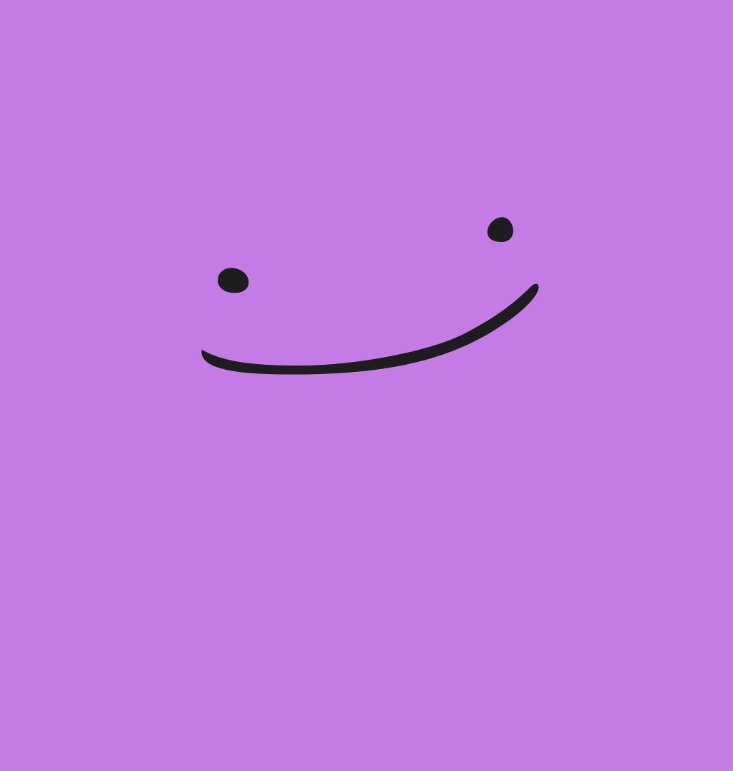
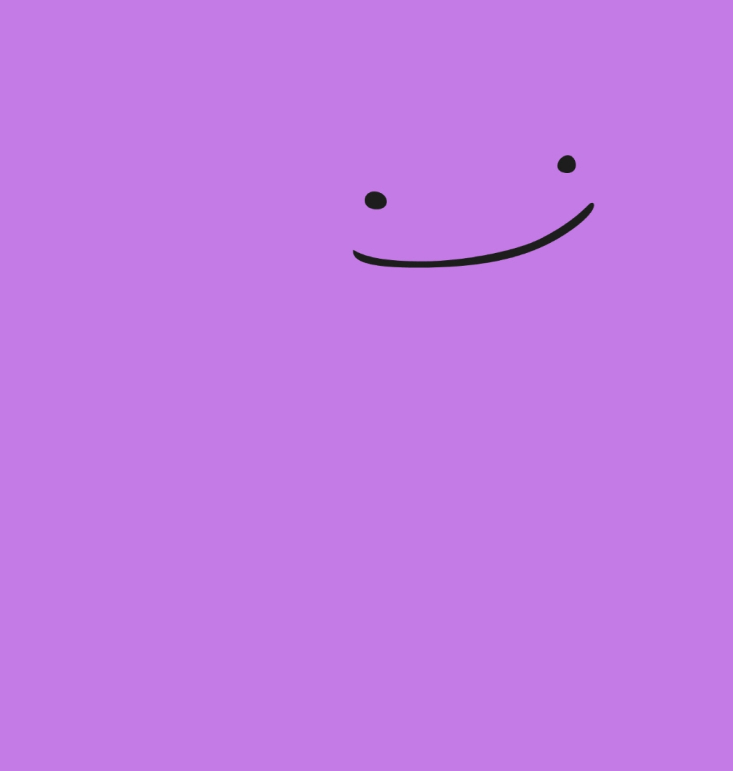
Add new pages

diff --git a/components/Navigation.vue b/components/Navigation.vue
@@ -1,7 +1,15 @@
 <script>
 import image from '../assets/img/jolteon.jpg';
+import Twitter from '../assets/icons/twitter.svg?inline';
+import Facebook from '../assets/icons/fb.svg?inline';
+import Patreon from '../assets/icons/patreon.svg?inline';
 export default {
   name: 'Navigation',
+  components: {
+    Twitter,
+    Facebook,
+    Patreon,
+  },
   props: {
     side: {
       type: String,
@@ -15,9 +23,6 @@ export default {
       type: String,
       default: '#FFDE53',
     },
-  },
-  mounted() {
-    console.log(this.image);
   },
 };
 </script>
@@ -40,6 +45,25 @@ export default {
         </li>
         <li>
           <NuxtLink to="/contact">Contact us</NuxtLink>
+        </li>
+      </ul>
+    </nav>
+    <nav>
+      <ul class="navigation__social">
+        <li>
+          <a href="" target="_blank" rel="noopener noreferrer" title="Twitter"
+            ><Twitter
+          /></a>
+        </li>
+        <li>
+          <a href="" target="_blank" rel="noopener noreferrer" title="Facebook"
+            ><Facebook
+          /></a>
+        </li>
+        <li>
+          <a href="" target="_blank" rel="noopener noreferrer" title="Patreon"
+            ><Patreon
+          /></a>
         </li>
       </ul>
     </nav>
@@ -70,14 +94,30 @@ export default {
     flex-direction: column;
     width: 25vw;
     padding: 100px;
+    padding-right: 0;
+    z-index: 1;
 
     a {
       font-size: 20px;
-      color: black;
+      color: #242426;
       line-height: 24px;
       font-weight: 900;
       text-decoration: none;
       text-transform: uppercase;
+      margin-bottom: 20px;
+      display: block;
+      position: relative;
+
+      &.nuxt-link-exact-active:before {
+        content: '';
+        display: block;
+        width: 20px;
+        height: 20px;
+        background: #242426;
+        position: absolute;
+        left: -40px;
+        top: 2px;
+      }
 
       &:hover {
         text-decoration: underline;
@@ -87,7 +127,7 @@ export default {
 
   &__pkmn-wrapper {
     height: 100vh;
-    width: 50vh;
+    width: 25vw;
     position: fixed;
     top: 0;
 
@@ -98,10 +138,6 @@ export default {
         right: -100%;
         align-items: flex-end;
       }
-
-      .navigation__pkmn-img {
-        margin-right: 10%;
-      }
     }
 
     &--right {
@@ -111,10 +147,22 @@ export default {
         left: -100%;
         align-items: flex-start;
       }
+    }
+  }
 
-      .navigation__pkmn-img {
-        margin-left: 10%;
-      }
+  &__social {
+    position: fixed;
+    bottom: 0;
+    left: 0;
+    padding: 100px;
+    display: flex;
+
+    a {
+      margin-right: 20px;
+    }
+
+    a svg {
+      width: 24px;
     }
   }
 
@@ -130,6 +178,10 @@ export default {
     justify-content: center;
     flex-direction: column;
     position: absolute;
+
+    &-img {
+      margin-left: 10%;
+    }
   }
 }
 </style>

diff --git a/layouts/default.vue b/layouts/default.vue
@@ -1,9 +1,62 @@
+<script>
+import Vue from 'vue';
+import jolteon from '../assets/img/jolteon.jpg';
+import dratini from '../assets/img/dratini.jpg';
+import ditto from '../assets/img/ditto.jpg';
+import ghastly from '../assets/img/ghastly.jpg';
+import quagsire from '../assets/img/quagsire.jpg';
+
+const pagePokemon = Object.freeze({
+  home: {
+    side: 'right',
+    image: jolteon,
+    background: '#FFDE53',
+  },
+  about: {
+    side: 'left',
+    image: dratini,
+    background: '#7384D6',
+  },
+  how: {
+    side: 'right',
+    image: ghastly,
+    background: '#382A39',
+  },
+  legal: {
+    side: 'left',
+    image: ditto,
+    background: '#C47BE6',
+  },
+  contact: {
+    side: 'right',
+    image: quagsire,
+    background: '#82D5F5',
+  },
+});
+
+export default Vue.extend({
+  data() {
+    return {
+      pokemon: pagePokemon.home,
+    };
+  },
+  created() {
+    this.$nuxt.$on('page', (data) => {
+      this.pokemon = pagePokemon[data];
+    });
+  },
+});
+</script>
+
 <template>
   <div>
-    <Navigation />
-    <main>
+    <Navigation
+      :side="pokemon.side"
+      :image="pokemon.image"
+      :background="pokemon.background"
+    />
+    <main tabindex="-1">
       <Nuxt />
     </main>
-    <footer><nav>Footer here</nav></footer>
   </div>
 </template>

diff --git a/pages/how-it-works.vue b/pages/how-it-works.vue
@@ -3,7 +3,7 @@ import Vue from 'vue';
 
 export default Vue.extend({
   mounted() {
-    this.$nuxt.$emit('page', 'home');
+    this.$nuxt.$emit('page', 'how');
   },
 });
 </script>
@@ -11,7 +11,7 @@ export default Vue.extend({
 <template>
   <div class="container">
     <div>
-      <h1 class="title">Pokelink home content</h1>
+      <h1 class="title">Pokelink how it works content</h1>
     </div>
   </div>
 </template>

diff --git a/pages/contact.vue b/pages/contact.vue
@@ -3,7 +3,7 @@ import Vue from 'vue';
 
 export default Vue.extend({
   mounted() {
-    this.$nuxt.$emit('page', 'home');
+    this.$nuxt.$emit('page', 'contact');
   },
 });
 </script>
@@ -11,7 +11,7 @@ export default Vue.extend({
 <template>
   <div class="container">
     <div>
-      <h1 class="title">Pokelink home content</h1>
+      <h1 class="title">Pokelink contact content</h1>
     </div>
   </div>
 </template>

diff --git a/pages/about.vue b/pages/about.vue
@@ -3,7 +3,7 @@ import Vue from 'vue';
 
 export default Vue.extend({
   mounted() {
-    this.$nuxt.$emit('page', 'home');
+    this.$nuxt.$emit('page', 'about');
   },
 });
 </script>
@@ -11,7 +11,7 @@ export default Vue.extend({
 <template>
   <div class="container">
     <div>
-      <h1 class="title">Pokelink home content</h1>
+      <h1 class="title">Pokelink about content</h1>
     </div>
   </div>
 </template>

diff --git a/pages/legal.vue b/pages/legal.vue
@@ -3,7 +3,7 @@ import Vue from 'vue';
 
 export default Vue.extend({
   mounted() {
-    this.$nuxt.$emit('page', 'home');
+    this.$nuxt.$emit('page', 'legal');
   },
 });
 </script>
@@ -11,7 +11,7 @@ export default Vue.extend({
 <template>
   <div class="container">
     <div>
-      <h1 class="title">Pokelink home content</h1>
+      <h1 class="title">Pokelink legal content</h1>
     </div>
   </div>
 </template>

diff --git a/nuxt.config.js b/nuxt.config.js
@@ -32,6 +32,7 @@ export default {
   buildModules: [
     // https://go.nuxtjs.dev/typescript
     '@nuxt/typescript-build',
+    '@nuxtjs/svg',
     [
       '@nuxtjs/google-fonts',
       {
